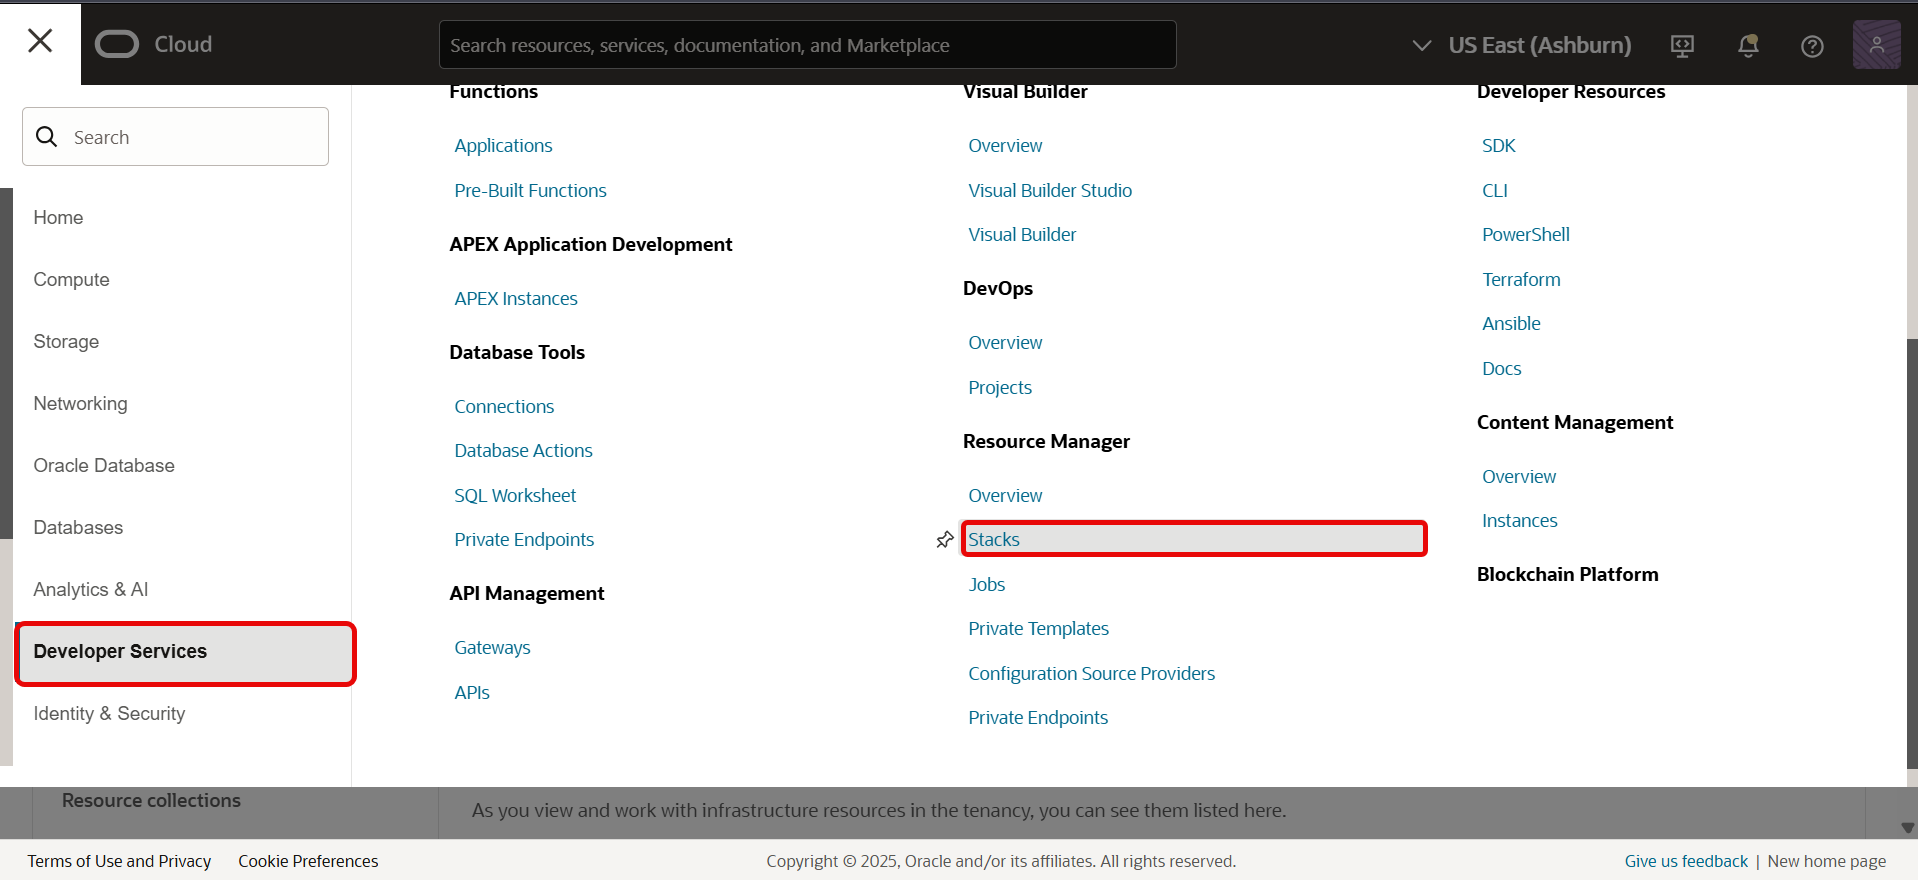
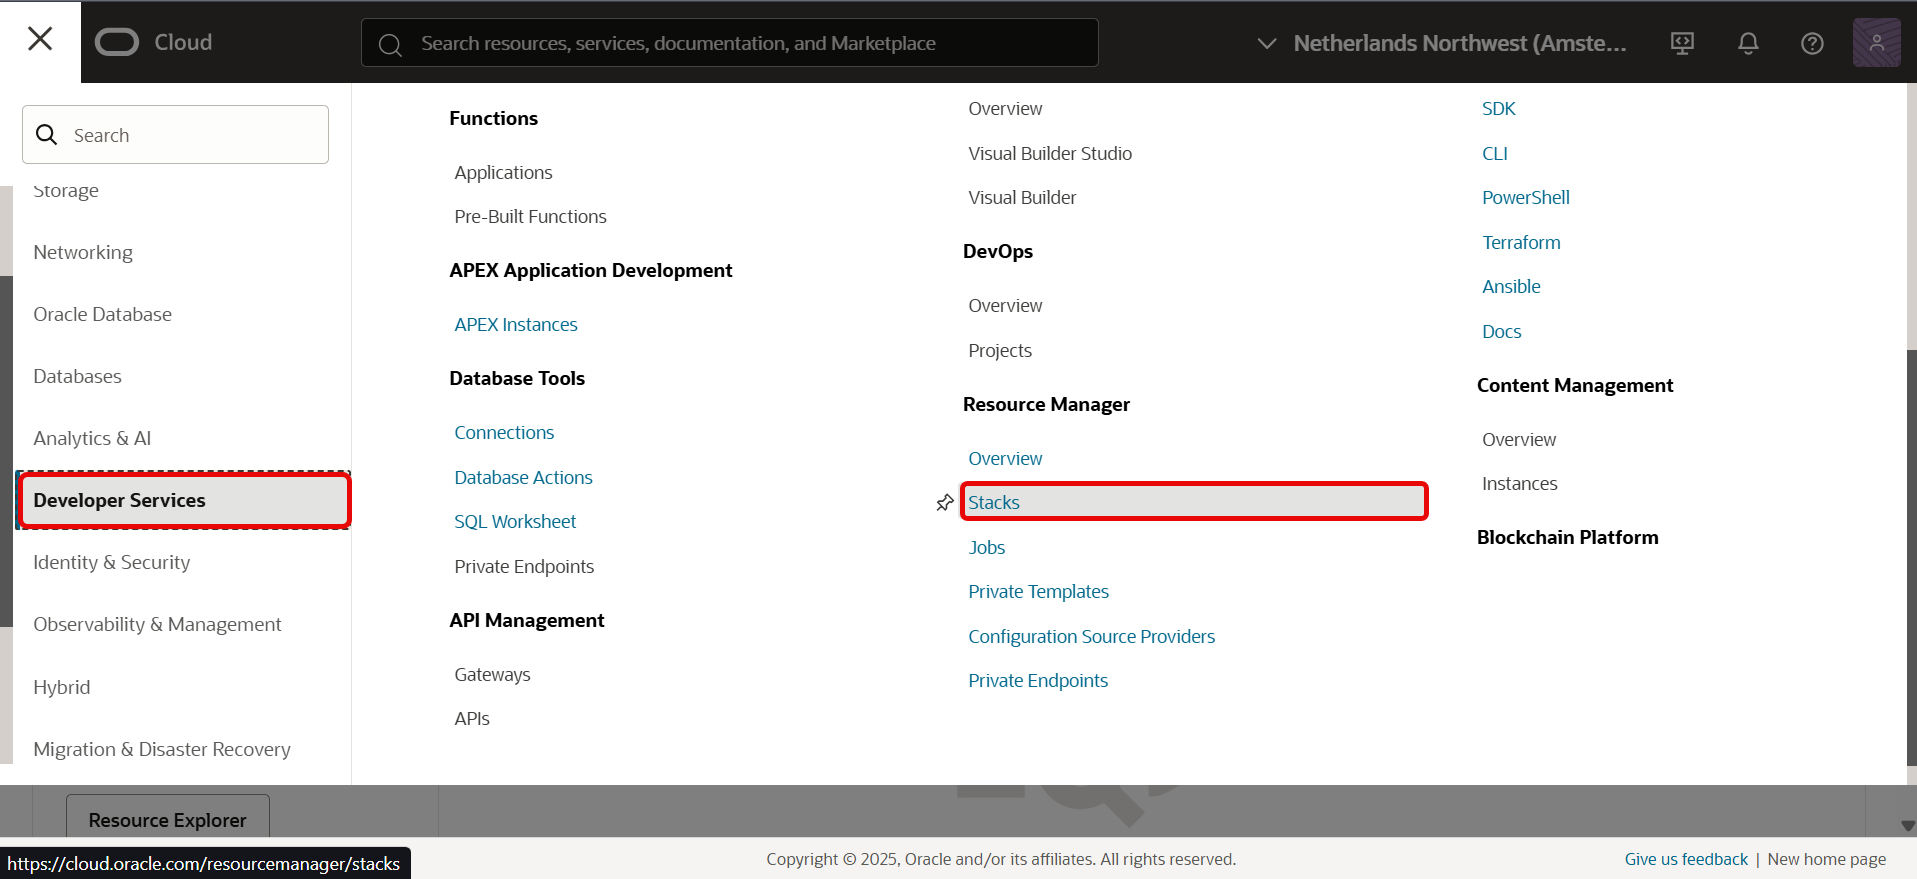
Update common labs with OCI screens (#453)
* update link

update link

* update remote desktop common lab

* update common lab

* fix name

* Update self-qa image

Update self-qa image

* Update self qa image 2

* Update step by step guide

Update step by step guide

* update common lab cloud-login

update common lab cloud-login

* update common lab cloud-login

update common lab cloud-login

* SQL Integration lab

Adding SQL Integration lab

* Update 12-livesql-integration.md

* update common screenshots

update common screenshots

* PT common images

* update console images

update console images

* updated images

updated images

* Oci UI updated on need help

* OCI UI updated common images

* Remote desktop access common lab

Remote desktop access common lab

* update

* update manifest

update manifest

* kevin's update

* update screens

update screens

* update wrong link

update wrong link

* Update common labs with OCI screens

Update common labs with OCI screens

diff --git a/labs/connect-to-db-via-bastion/connect-to-db-bastion.md b/labs/connect-to-db-via-bastion/connect-to-db-bastion.md
@@ -31,18 +31,18 @@ This lab assumes you have:
 
 3. Under List Scope, in the Compartment list, click the name of the compartment where you want to create a bastion.
 
-	![Compartment](./images/list-scope-comp.png)
+	![Compartment](../../images/console/list-scope-comp.png)
 
 	Change name of Instance to your specification.
 
 4. Click **Create bastion**.
 
-	![Create bastion](./images/create-bastion.png)
+	![Create bastion](../../images/console/create-bastion.png)
 
 5. Enter a name for the Bastion
 	- Avoid entering any confidential information in this field. Only alphanumeric characters are supported.
 
-	![Bastion name](./images/name-bastion.png)
+	![Bastion name](../../images/console/name-bastion.png)
 
 6. Under Configure networking, select the Target virtual cloud network of the target resource that you intend to connect to by using sessions hosted on this bastion.
 If needed, change the compartment to find the VCN.
@@ -55,7 +55,7 @@ For example, 203.0.113.0/24 or 0.0.0.0/0 allows all.
 
 	Enter a CIDR block into the input field, and then either click the value or press Enter to add the value to the list. The maximum allowed number of CIDR blocks is 20.
 
-	![CIDR](./images/cidr.png " ")
+	![CIDR](../../images/console/cidr.png " ")
 
 	A more limited address range offers better security.
 
@@ -73,24 +73,24 @@ Before creating a Managed SSH session, verify that:
 
 3. Click the name of the session
 
-	![Session name](./images/bastion.png)
+	![Session name](../../images/console/bastion.png)
 
 4. Click "Create Session"
 
-	![Create Session](./images/create-session.png)
+	![Create Session](../../images/console/create-session.png)
 
 5. Choose a session type by selecting "Managed SSH Session"
 
 6. Enter a display name for the new session
 
-	![Display name](./images/managed.png)
+	![Display name](../../images/console/managed.png)
 
 7. Choose Compute instance and under Add SSH Key, provide the public key file of the SSH key pair that you want to use for the session.
 Later, when you connect to the session, you must provide the private key of the same SSH key pair.
 
 8. When you are finished, click "Create session"
 
-	![Create session](./images/create-session2.png)
+	![Create session](../../images/console/create-session-bastion.png)
 
 ## Task 3: Allow Network Access From the Bastion
 
@@ -157,5 +157,5 @@ You may now **proceed to the next lab**.
 
 ## Acknowledgements
 * **Author** - Thea Lazarova, Solution Engineer Santa Monica
-* **Contributors** -  Andrew Hong, Solution Santa Monica, Arabella Yao
-* **Last Updated By/Date** - Arabella Yao, Database Product Management, Dec 2022
+* **Contributors** -  Andrew Hong, Solution Santa Monica
+* **Last Updated By/Date** - Ramona Magadan, Database Product Management, August 2025

diff --git a/labs/sqldevweb-login/sqldevweb-login.md b/labs/sqldevweb-login/sqldevweb-login.md
@@ -30,25 +30,23 @@ This lab assumes you have:
 
 1. After logging into your Oracle Cloud account, click the hamburger icon to open your Cloud Services navigation menu. This will reveal your top-level menu options.
 
-    ![Click the hamburger icon to expand the navigation menu.](./images/navigate-to-hamburger-icon-oci-console.png " ")
+    ![Click the hamburger icon to expand the navigation menu.](../../images/console/home-dashboard.png " ")
 
 2. From the available options, click `Oracle Database`.
 
-    ![Locate Oracle Database from the available options.](./images/navigate-to-oracle-database-from-navigation-menu.png " ")
-
 3. The Oracle Database sub-menu will appear. Select `Autonomous Database`.
 
-    ![Locate Oracle Database from the available options.](./images/select-autonomous-database-from-oci-navigation-sub-menu.png " ")
+    ![Locate Oracle Database from the available options.](../../images/console/database-adb.png " ")
 
 4. A screen with your available databases will appear. Ensure `root` has been selected under the `Compartment` in your `List scope`. Additionally, ensure you've selected `All` for your `Workload type` (found under your `Filters`). <if type="livelabs">Check your login credentials to find the **compartment** assigned to you. Enter your compartment number, for example, `LL185`, in the Search Compartments field to quickly locate your compartment.</if>
 
-    ![Viewing your available databases.](./images/available-autonomous-databases-view-in-oci.png " ")
+    ![Viewing your available databases.](../../images/console/adb-database.png " ")
 
 5. From the databases displayed, click the name of your database to navigate to your Autonomous Database's Details page.
 
 6. Your selected Autonomous Database's Details page will appear. Click `Database Actions` then `SQL` to launch in a new window.
 
-    ![Clicking the Database Actions Button from your details page.](./images/clicking-database-actions-button-from-selected-database.png " ")
+    ![Clicking the Database Actions Button from your details page.](../../images/console/clicking-database-actions-button-from-selected-database.png " ")
 
 7. After this, you'll be automatically redirected to Database Actions SQL screen.
 
@@ -75,4 +73,4 @@ You may now **proceed to the next lab**.
 ## Acknowledgements
 
 - **Author** - Troy Anthony, Database Product Management, May 2020
-- **Last Updated By/Date** - Ramona Magadan, Database Product Management, May 2024
+- **Last Updated By/Date** - Ramona Magadan, Database Product Management, August 2025

diff --git a/sample-livelabs-templates/create-labs/labs/1-labs-wms/1-labs-wms.md b/sample-livelabs-templates/create-labs/labs/1-labs-wms/1-labs-wms.md
@@ -1,21 +1,24 @@
 # Submit new workshop in WMS
 
-## Introduction
+## 🧭 Introduction
 
 Oracle Workshop Management System (WMS) is used to submit workshops, follow a process for team approvals, develop and publish the workshop. Most of our focus in these step by step guides will talk about publishing to LiveLabs, which will use the workshop that was published in LiveLabs.
 
 The WMS workflow is shown with statuses and gives visibility into the development steps. WMS also hosts ways to market the workshop with social media, and keep track of regular quality checks to keep the workshop relevant.
 
-### Objectives
+---
 
-* Submit a LiveLabs workshop request using the **Oracle Workshop Management System (WMS)**.
-* Understand roles and responsibilities.
-* Follow the status and workflow.
+| 🎯 Objectives                                      | ![Submit Workshop](images/submit_workshop.png)          |
+| ------------------------------------------------- | ------------------------------------------------------- |
+| - Submit a LiveLabs workshop request using WMS    |                                                         |
+| - Understand roles and responsibilities            |                                                         |
+| - Follow the status and workflow                    |                                                         |
+| **What Do You Need?**                              |                                                         |
+| - Access to Oracle Workshop Management System (WMS) |                                                         |
+| - [WMS](https://bit.ly/oraclewms)                  |                                                         |
 
-### What Do You Need?
 
-* Access to the **Oracle Workshop Management System (WMS)**
-* [WMS](https://bit.ly/oraclewms)
+---
 
 ## Task 1: Submit a workshop request to the Oracle Workshop Management System
 

diff --git a/labs/generate-ssh-key-cloud-shell/generate-ssh-keys-cloud-shell-sandbox.md b/labs/generate-ssh-key-cloud-shell/generate-ssh-keys-cloud-shell-sandbox.md
@@ -26,13 +26,13 @@ The Cloud Shell machine is a small virtual machine running a Bash shell which yo
 
 1. Click the **Navigation Menu** in the upper left, navigate to **Compute**, and select **Instances**.
 
-   ![Compute Instances](https://oracle-livelabs.github.io/common/images/console/compute-instances.png " ")
+   ![Compute Instances](../../images/console/compute-instances.png " ")
 
 2. Select the compartment you are assigned to (check which compartment you are assigned to on the LiveLabs *Login Info* page). Expand the **root** compartment and then the **Livelabs** compartment. Select the compartment assigned to you.
 
     ![View Login Info](https://oracle-livelabs.github.io/common/labs/need-help/images/view-login-info.png " ")
 
-   ![Select Compartment](https://oracle-livelabs.github.io/common/labs/need-help/images/select-compartment.png " ")
+   ![Select Compartment](../../images/console/compute-instance-compartment.png " ")
 
 3. Go to your Cloud console and click **Cloud Shell** at the top right of the page.
 
@@ -86,5 +86,4 @@ You may now **proceed to the next lab**.
 
 ## Acknowledgements
 * **Author** - Dan Kingsley, Enablement Specialist, OSPA
-* **Contributors** - Arabella Yao, Database Product Management
-* **Last Updated By/Date** - Carmen Berdant, Mar 2024
+* **Last Updated By/Date** - Ramona Magadan, August 2025

diff --git a/labs/generate-ssh-key-cloud-shell/generate-ssh-keys-cloud-shell.md b/labs/generate-ssh-key-cloud-shell/generate-ssh-keys-cloud-shell.md
@@ -35,7 +35,7 @@ The Cloud Shell machine is a small virtual machine running a Bash shell which yo
 
    ![View Login Info](https://oracle-livelabs.github.io/common/labs/need-help/images/view-login-info.png " ")
 
-   ![Select Compartment](https://oracle-livelabs.github.io/common/labs/need-help/images/select-compartment.png " ")
+   ![Select Compartment](../../images/console/compute-instance-compartment.png " ")
 
 2.  To start the Oracle Cloud shell, go to your Cloud console and click **Cloud Shell** at the top right of the page.
 
@@ -91,4 +91,4 @@ You may now **proceed to the next lab**.
 ## Acknowledgements
 * **Author** - Dan Kingsley, Enablement Specialist, OSPA
 * **Contributors** - Jaden McElvey, Kamryn Vinson, Arabella Yao
-* **Last Updated By/Date** - Carmen Berdant, Technical Project Manager, Database Product Management, Mar 2024
+* **Last Updated By/Date** - Ramona Magadan, Technical Program Manager, Database Product Management, Aug 2025
